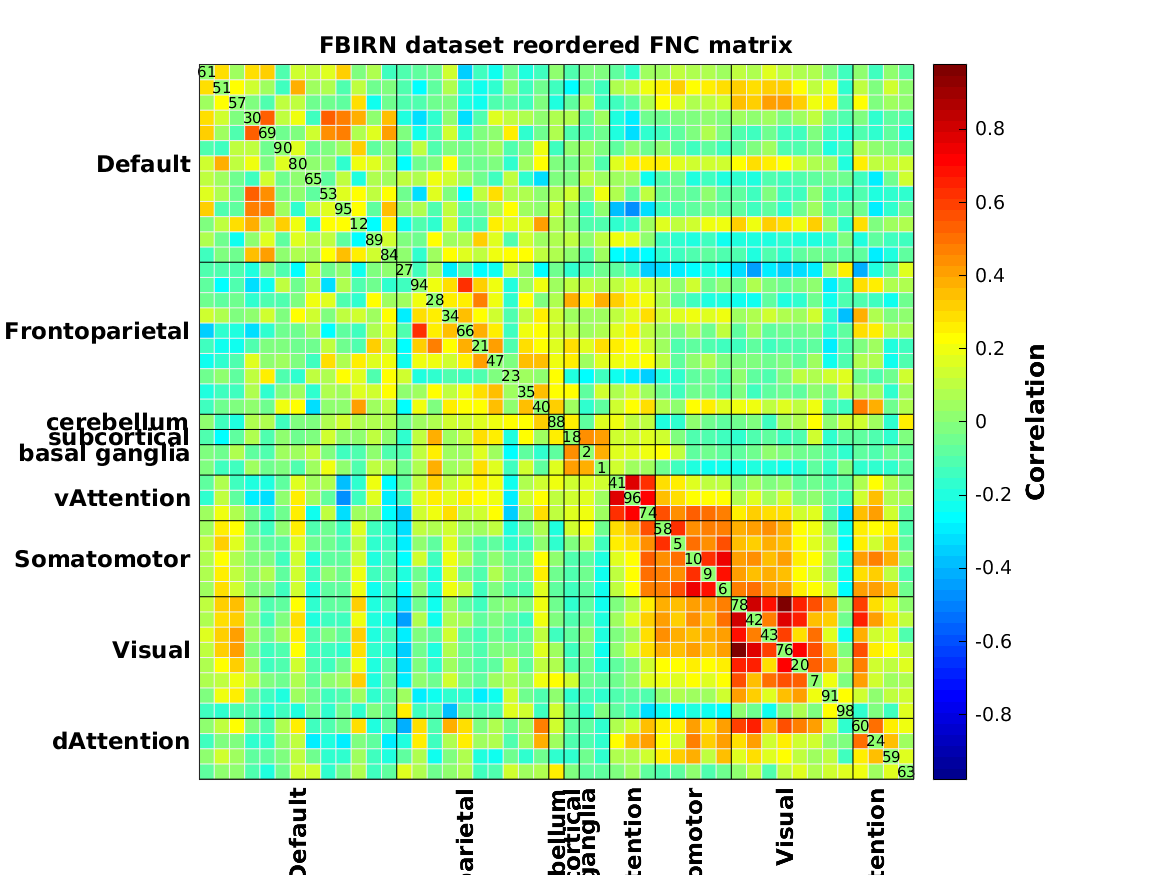
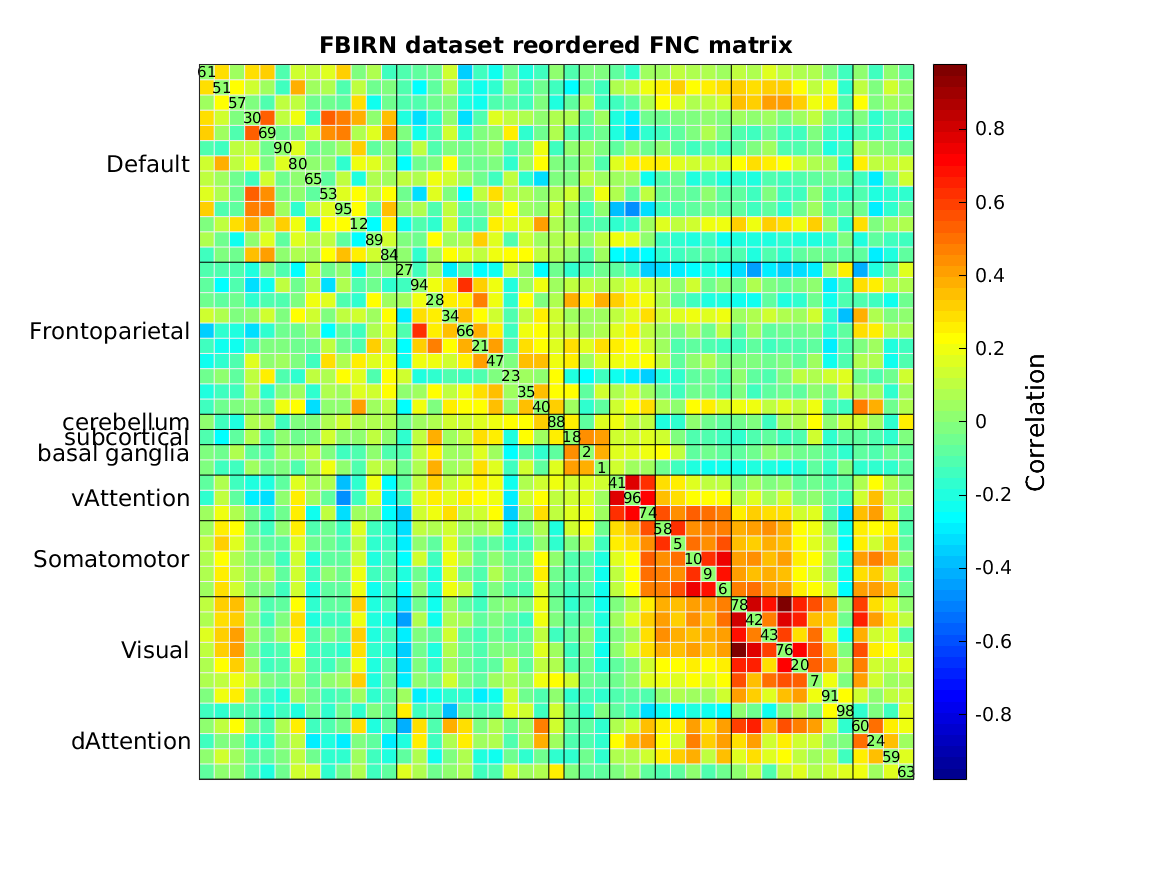
updated readme and FNC plotting script

diff --git a/bin/my_icatb_plot_FNC.m b/bin/my_icatb_plot_FNC.m
@@ -77,7 +77,7 @@ uistack(c(2*(length(RSN_I)+1)-cMOD), 'top')
 A = sh;
 I = c(find(strcmp(get(c, 'Type'),'image')));
 C = colorbar;
-ylabel(C, T, 'fontweight', 'bold', 'fontsize', 12)
+ylabel(C, T, 'fontweight', 'normal', 'fontsize', 12)
 axis image; colormap jet
 
 try
@@ -106,9 +106,9 @@ if exist('MOD_NAMES', 'var') && ~isempty(MOD_NAMES)
     ypos = c(end) + 1;
     xpos = b(end) + 1;
     th=text(repmat(0,length(b),1), 1:length(b), MOD_NAMES(1:length(RSN_I)),'HorizontalAlignment','right','rotation',0, ...
-        'color', foregroundcolor, 'fontweight', 'bold', 'fontsize', 11);
-    th=text(1:length(c),repmat(xpos,length(c),1), MOD_NAMES(1:length(RSN_I)),'HorizontalAlignment','right','rotation',90, ...,
-        'color', foregroundcolor, 'fontweight', 'bold', 'fontsize', 11);
+        'color', foregroundcolor, 'fontweight', 'normal', 'fontsize', 11);
+    % th=text(1:length(c),repmat(xpos,length(c),1), MOD_NAMES(1:length(RSN_I)),'HorizontalAlignment','right','rotation',90, ...,
+    %     'color', foregroundcolor, 'fontweight', 'normal', 'fontsize', 11);
 end
 
 

diff --git a/README.md b/README.md
@@ -1,6 +1,6 @@
 # Autolabeller
 
-This tool can automatically generate anatomical and functional labels of spatial maps of brain activity.
+This tool can automatically generate anatomical and functional labels of spatial maps of brain activity, and a reordered functional network connectivity matrix.
 
 ## Prerequisites
 
@@ -13,19 +13,19 @@ Autolabeller is written in Matlab™ and requires several Matlab toolboxes to ru
 
 ## Using the autolabeller
 
-Example code can be found in `example_label_ic.m`. Note that it requires around 4GB of RAM to run.
+Example code can be found in `src/example_label_ic.m`. Note that it requires around 4GB of RAM to run.
 
     % add requirements to path
-    addpath( genpath( './bin/GroupICATv4.0b/' ) )      % GIFT toolbox
-    addpath( genpath( './bin/CanlabCore/CanlabCore' ) )       % Canlab toolbox
-    addpath( './bin/spm12/' )      % SPM12 toolbox
-    addpath('./bin/2019_03_03_BCT')       % Brain connectivity toolbox
-    addpath('./src/')       % add the autolabeller src folder only
+    addpath( genpath( '../bin/GroupICATv4.0b/' ) )      % GIFT toolbox
+    addpath( genpath( '../bin/CanlabCore' ) )       % Canlab toolbox
+    addpath( '../bin/spm12/' )      % SPM12 toolbox
+    addpath( '../bin/2019_03_03_BCT' )       % Brain connectivity toolbox
+    addpath( '../bin/autolabeller/' )       % add the autolabeller src folder only
 
     % GICA example with fbirn dataset
     clear params;
-    params.param_file = './data/ICAresults_C100_fbirn/fbirnp3_rest_ica_parameter_info.mat';
-    params.outpath = './results/fbirn/';
+    params.param_file = '/data/mialab/users/salman/projects/fBIRN/current/data/ICAresults_C100_fbirn/fbirnp3_rest_ica_parameter_info.mat';
+    params.outpath = '../results/fbirn/';
     params.n_corr = 3;
     params.fit_method = 'mnr';
     disp( 'Running the autolabeller on FBIRN dataset' )
@@ -33,8 +33,8 @@ Example code can be found in `example_label_ic.m`. Note that it requires around 
 
     % Spatial map example with neuromark template
     clear params;
-    params.sm_path = './data/NetworkTemplate/NetworkTemplate_High_VarNor.nii';
-    params.outpath = './results/neuromark/';
+    params.sm_path = '/data/mialab/competition2019/NetworkTemplate/NetworkTemplate_High_VarNor.nii';
+    params.outpath = '../results/neuromark/';
     params.n_corr = 3;
     params.fit_method = 'mnr';
     disp( 'Running the autolabeller on NeuroMark dataset' )
@@ -42,7 +42,7 @@ Example code can be found in `example_label_ic.m`. Note that it requires around 
 
 ### Visualization
 
-An optional FNC visualization script is provided (`example_plot_results.m`).
+An optional FNC visualization script is provided (`src/example_plot_fnc.m`).
 
 ## Result
 
